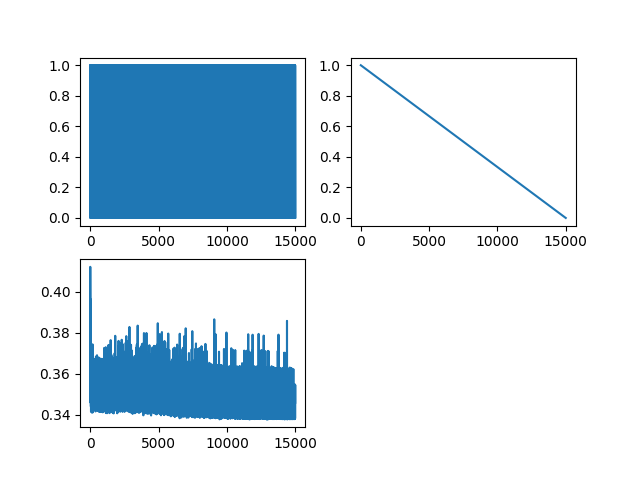
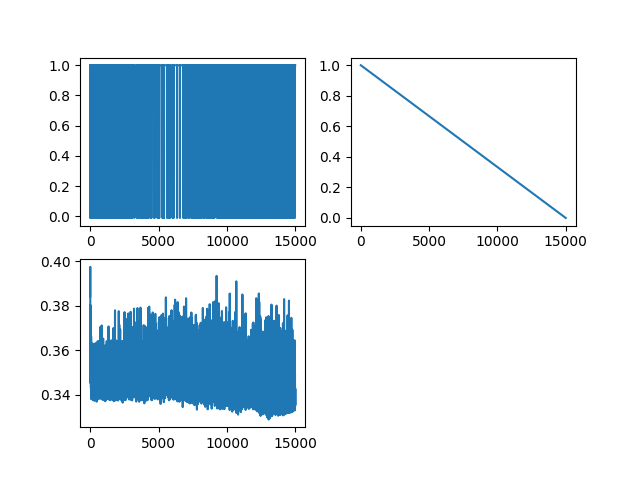
Readded reward scheduler

diff --git a/FrozenLakeNeural.py b/FrozenLakeNeural.py
@@ -214,7 +214,8 @@ class FrozenLakeDQL():
             'FrozenLake-v1', 
             desc=["SFFF", "FFFF", "FFFF", "FFFG"], 
             is_slippery=is_slippery, 
-            render_mode=curr_render_mode
+            render_mode=curr_render_mode,
+            reward_schedule=(1, 0, -0.01)
         )
         loss_list = []   
 
